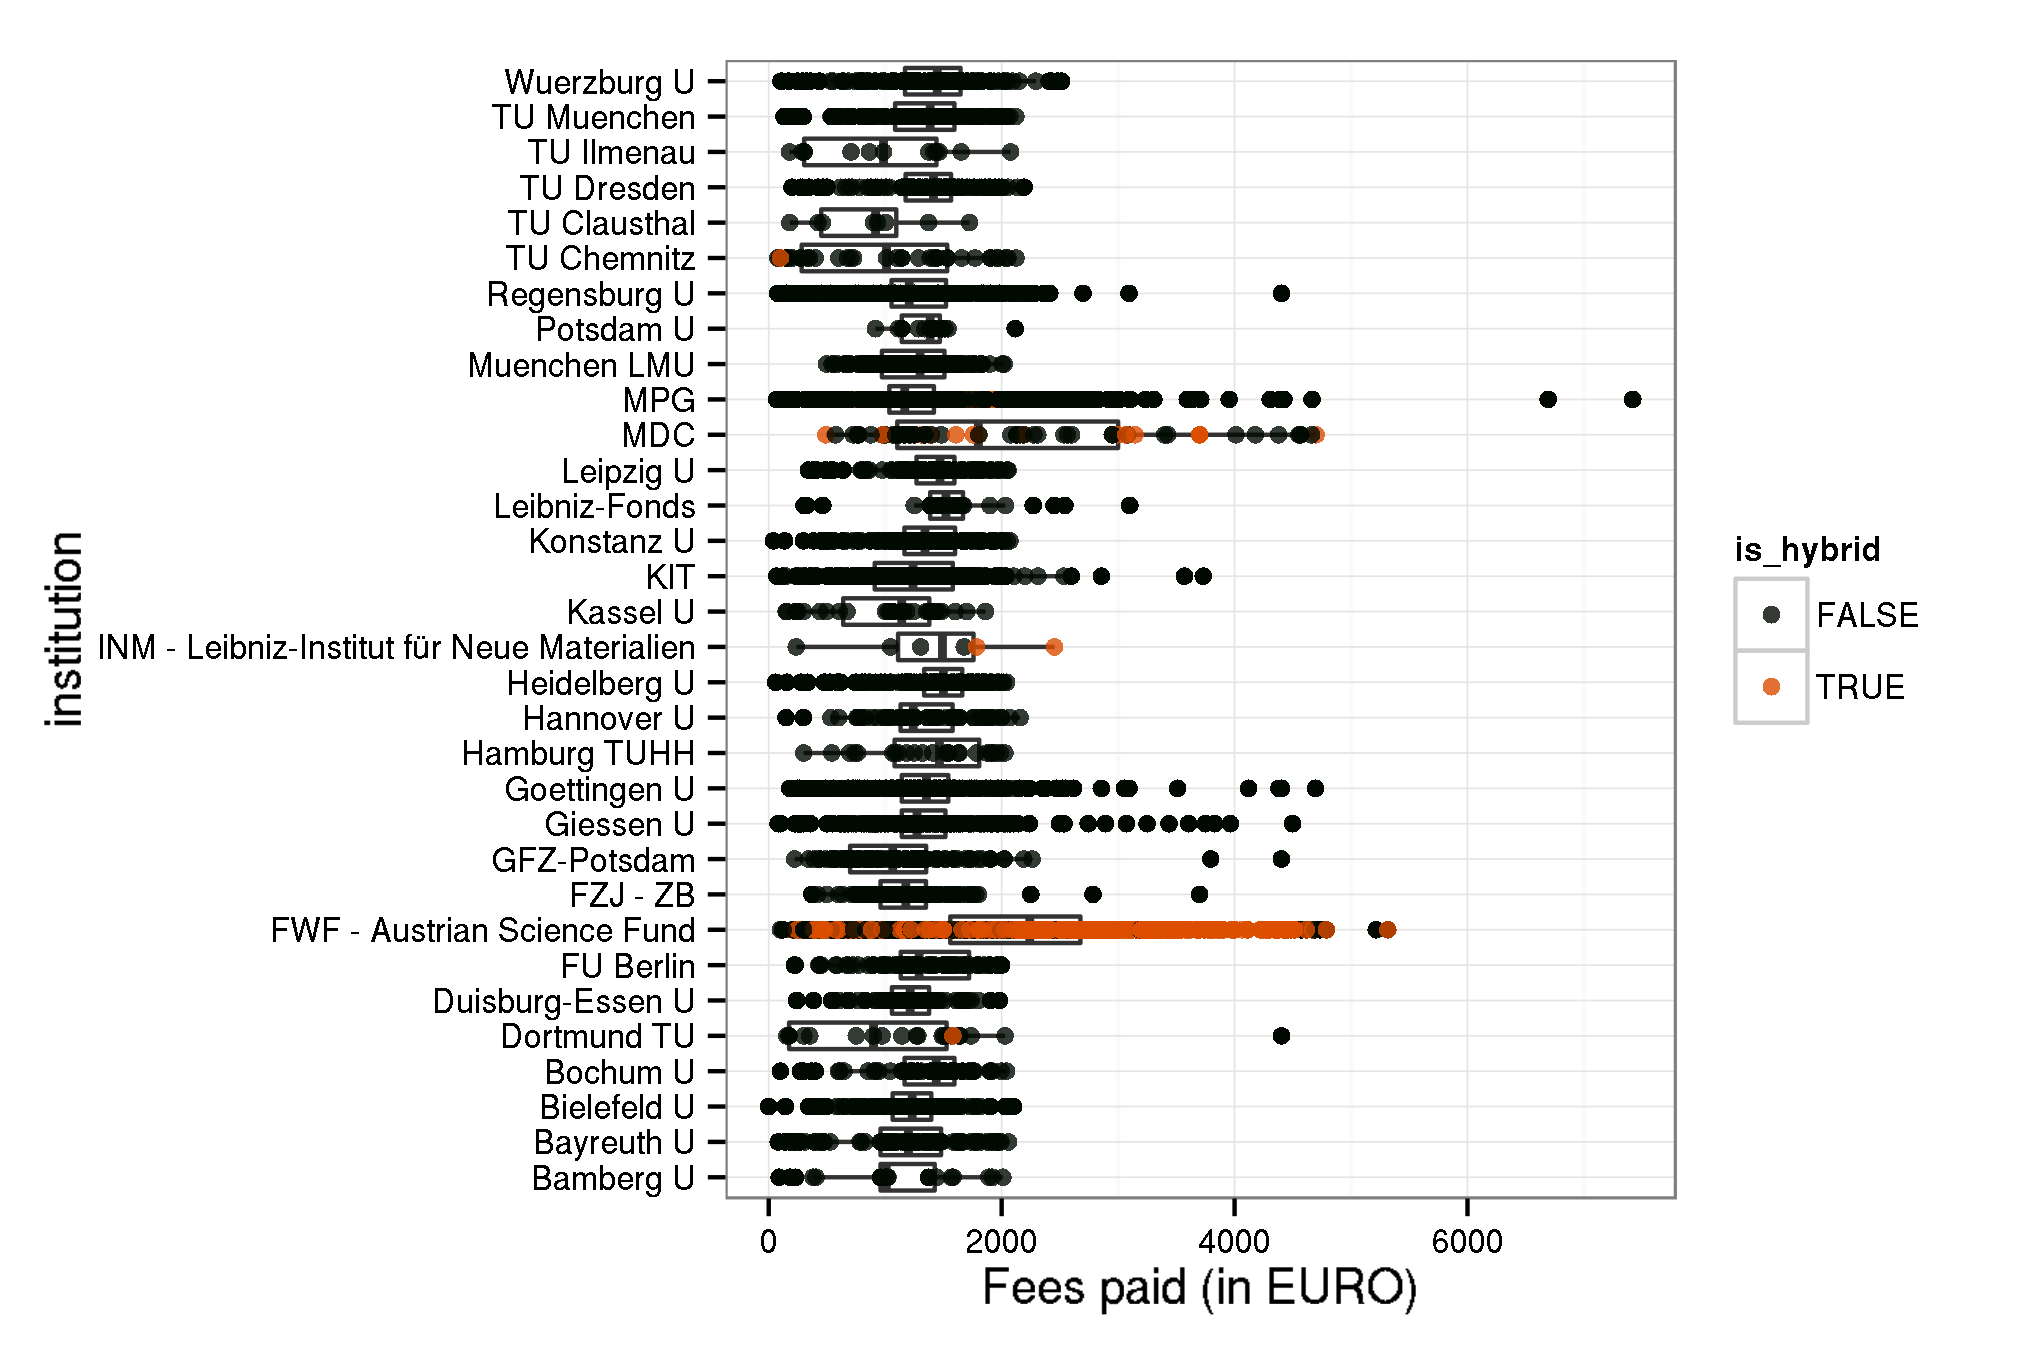
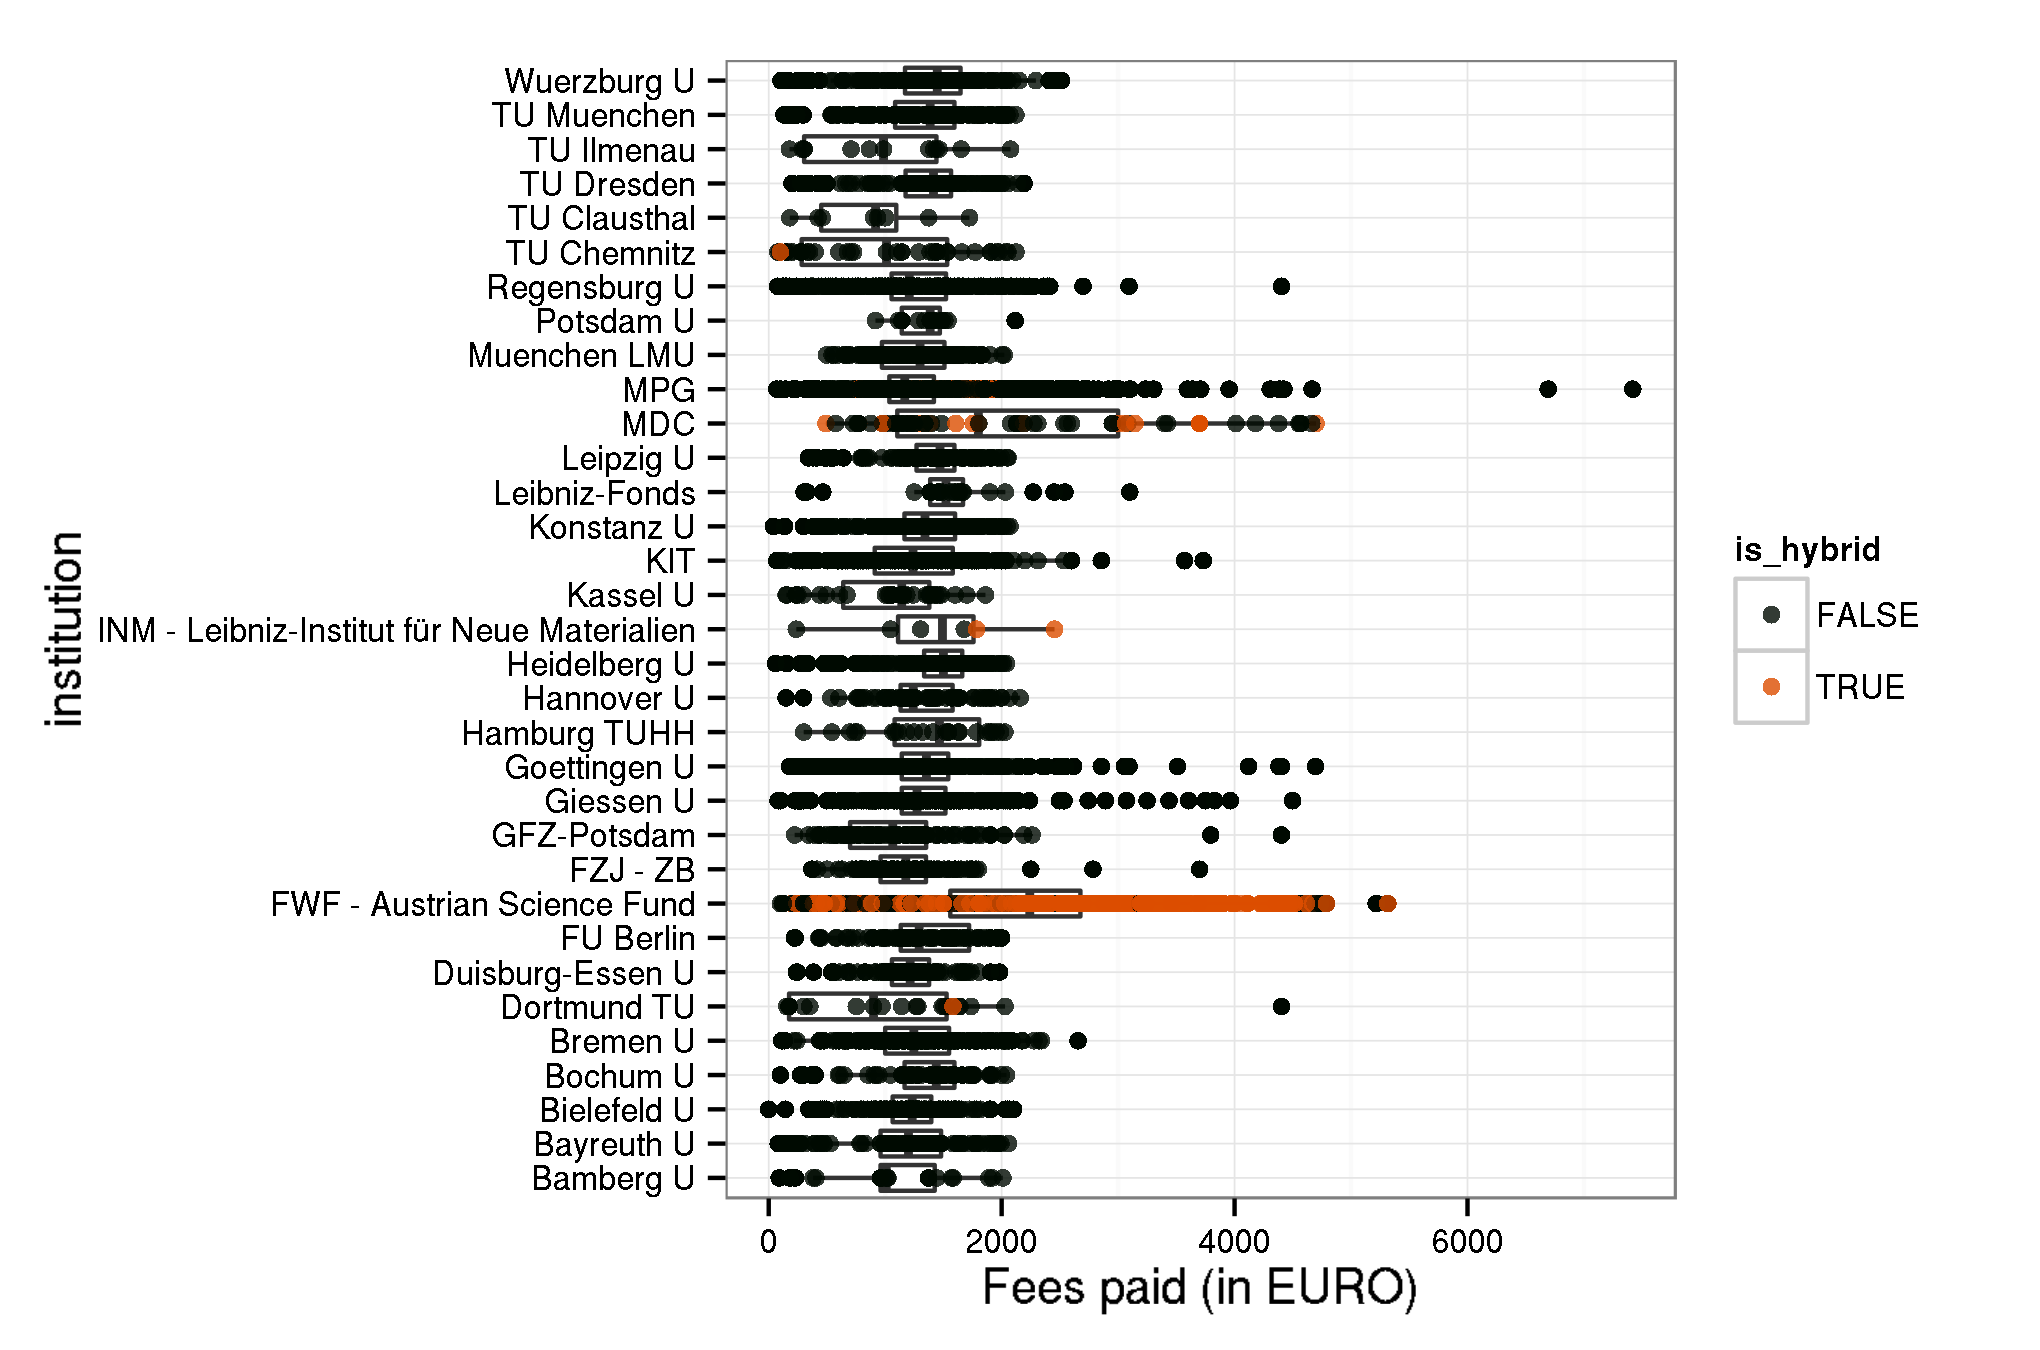
bremen apc data 2011-2016

Changed region(s): [[0.0309, 0.0622, 0.7103, 0.8711], [0.7412, 0.28, 0.8029, 0.3111]]

diff --git a/README.md b/README.md
@@ -30,6 +30,7 @@ So far, the following German universities have agreed to share information on pa
 - [Technische Universität Ilmenau](https://www.tu-ilmenau.de/ub/service/open-access/oa-publikationsfonds/)
 - [Technische Universität München](https://www.ub.tum.de/en/publishing-fund)
 - [University of Bamberg](http://www.uni-bamberg.de/en/ub/publishing/open-access-publishing/open-access-funds/)
+- [University of Bremen](http://www.suub.uni-bremen.de/home-english/refworks-and-publishing/open-access-in-bremen-2/)
 - [University of Duisburg-Essen](https://www.uni-due.de/ub/open_access.shtml)
 - [University of Göttingen](http://www.sub.uni-goettingen.de/en/electronic-publishing/open-access/open-access-publication-funding/)
 - [University of Kassel](http://www.uni-kassel.de/go/publikationsfonds)
@@ -64,13 +65,13 @@ The data content covers APCs as paid for by our central budget for the Max Planc
 
 Information on both open access journal articles and open access publication of articles in toll-access journals ("hybrid") are provided.
 
-In total,  16 983 063 € for  10 861 articles were paid by the participating unviversities. Average  fee is 1 563.7 € and the median 1 386 €.
+In total,  17 318 936 € for  11 125 articles were paid by the participating unviversities. Average  fee is 1 556.8 € and the median 1 386 €.
 
 ### Open Access Journals
 
 
 
-At the moment, the dataset releases information on 8 217 articles in open access journals which charge publication fees. Total expenditure amounts to  10 700 514 €. Average  fee is 1 302.2 € and the median 1 236 €.
+At the moment, the dataset releases information on 8 481 articles in open access journals which charge publication fees. Total expenditure amounts to  11 036 387 €. Average  fee is 1 301.3 € and the median 1 236 €.
 
 View dataset on [GitHub](https://github.com/OpenAPC/openapc-de/blob/master/data/apc_de.csv) or take a look at our [treemap visualisations](http://treemaps.intact-project.org).
 
@@ -81,6 +82,7 @@ View dataset on [GitHub](https://github.com/OpenAPC/openapc-de/blob/master/data/
 |Bayreuth U                                  |       92|            105725|          1149|   1200|
 |Bielefeld U                                 |      263|            322815|          1227|   1232|
 |Bochum U                                    |       71|             93546|          1318|   1438|
+|Bremen U                                    |      264|            335873|          1272|   1246|
 |Dortmund TU                                 |       28|             26410|           943|    826|
 |Duisburg-Essen U                            |      114|            136911|          1201|   1214|
 |FU Berlin                                   |      106|            142671|          1346|   1292|
@@ -152,9 +154,9 @@ External sources were used to compile the dataset. This allows for disambiguated
 |Identifier                 | Coverage                                                          |
 |:--------------------------|:------------------------------------------------------------------|
 |DOI                        |  99.51%       |
-|PubMed ID                  |  71.51%      |
-|PubMed Central ID          |  67.76%     |
-|Web of Science record ID   | 83.81%      |
+|PubMed ID                  |  70.77%      |
+|PubMed Central ID          |  67.07%     |
+|Web of Science record ID   | 81.82%      |
 
 
 
@@ -217,7 +219,7 @@ For data enrichment, sample visualisations and explorations we build on the work
 
 ## Contributors
 
-Jochen Apel, Hans-Georg Becker, Roland Bertelmann, Daniel Beucke, Peter Blume, Ute Blumtritt, Christoph Broschinski, Dorothea Busjahn, Gernot Deinzer, Andrea Dorner,  Clemens Engelhardt, Kristina Hanig, Dominik Hell, Ulrich Herb, Inken Feldsien-Sudhaus, Fabian Franke, Claudia Frick, Agnes Geißelmann, Kai Karin Geschuhn, Gerrit Kuehle, Doris Jaeger, Andreas Kennecke, Stephanie Kroiss, Kathrin Lucht-Roussel, Frank Lützenkirchen, Anja Oberländer, Vitali Peil, Dirk Pieper, Tobias Pohlmann, Michael Schlachter, Katharina Rieck, Florian Ruckelshausen, Birgit Schlegel, Adriana Sikora, Marco Tullney, Astrid Vieler, Marco Winkler, Sabine Witt, Najko Jahn
+Benjamin Ahlborn, Jochen Apel, Hans-Georg Becker, Roland Bertelmann, Daniel Beucke, Peter Blume, Ute Blumtritt, Christoph Broschinski, Dorothea Busjahn, Gernot Deinzer, Andrea Dorner,  Clemens Engelhardt, Kristina Hanig, Dominik Hell, Ulrich Herb, Inken Feldsien-Sudhaus, Fabian Franke, Claudia Frick, Agnes Geißelmann, Kai Karin Geschuhn, Gerrit Kuehle, Doris Jaeger, Andreas Kennecke, Stephanie Kroiss, Kathrin Lucht-Roussel, Frank Lützenkirchen, Anja Oberländer, Vitali Peil, Dirk Pieper, Tobias Pohlmann, Michael Schlachter, Katharina Rieck, Florian Ruckelshausen, Birgit Schlegel, Adriana Sikora, Marco Tullney, Astrid Vieler, Marco Winkler, Sabine Witt, Najko Jahn
 
 ## Contact
 
